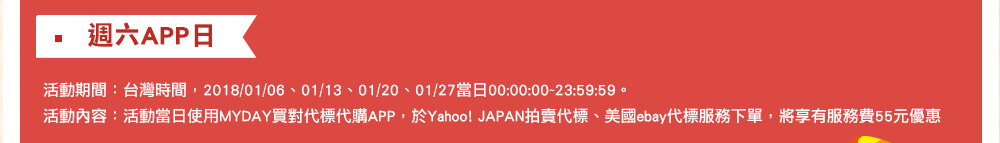
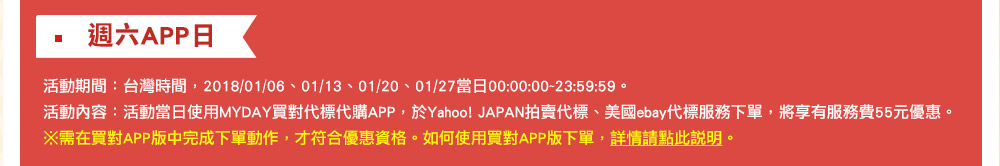
N

diff --git a/index.html b/index.html
@@ -110,12 +110,15 @@ height="0" width="0" style="display:none;visibility:hidden"></iframe></noscript>
 		<img src="images/content03_04.jpg" name="w3" id="w3">
 		<img src="images/content03_05.jpg" name="w4" id="w4">
 		<img src="images/content03_06.jpg" name="w5" id="w5">
-		<img src="images/content03_07.jpg" name="w6" id="w6">
+		<img src="images/content03_07.jpg" name="w6" usemap="#w6Map" id="w6">
+        <map name="w6Map">
+          <area shape="rect" coords="609,129,724,148" href="https://www.myday.com.tw/a_myday/about_search.php?type=3&id=11&keyword=買對APP購物教學" target="_blank">
+        </map>
 		<img src="images/content03_08.jpg">                                   
 	  <img src="images/content04.jpg" usemap="#Map7">
       <map name="Map7">
-        <area shape="rect" coords="581,251,938,274" href="https://www.myday.com.tw/a_myday/about.php?type=3&id=67" target="_blank">
-        <area shape="rect" coords="456,412,527,432" href="https://www.myday.com.tw/a_myday/about.php?type=3&id=19" target="_blank">
+        <area shape="rect" coords="581,247,938,270" href="https://www.myday.com.tw/a_myday/about.php?type=3&id=67" target="_blank">
+        <area shape="rect" coords="457,405,528,425" href="https://www.myday.com.tw/a_myday/about.php?type=3&id=19" target="_blank">
       </map>
    	  </div> 
          
